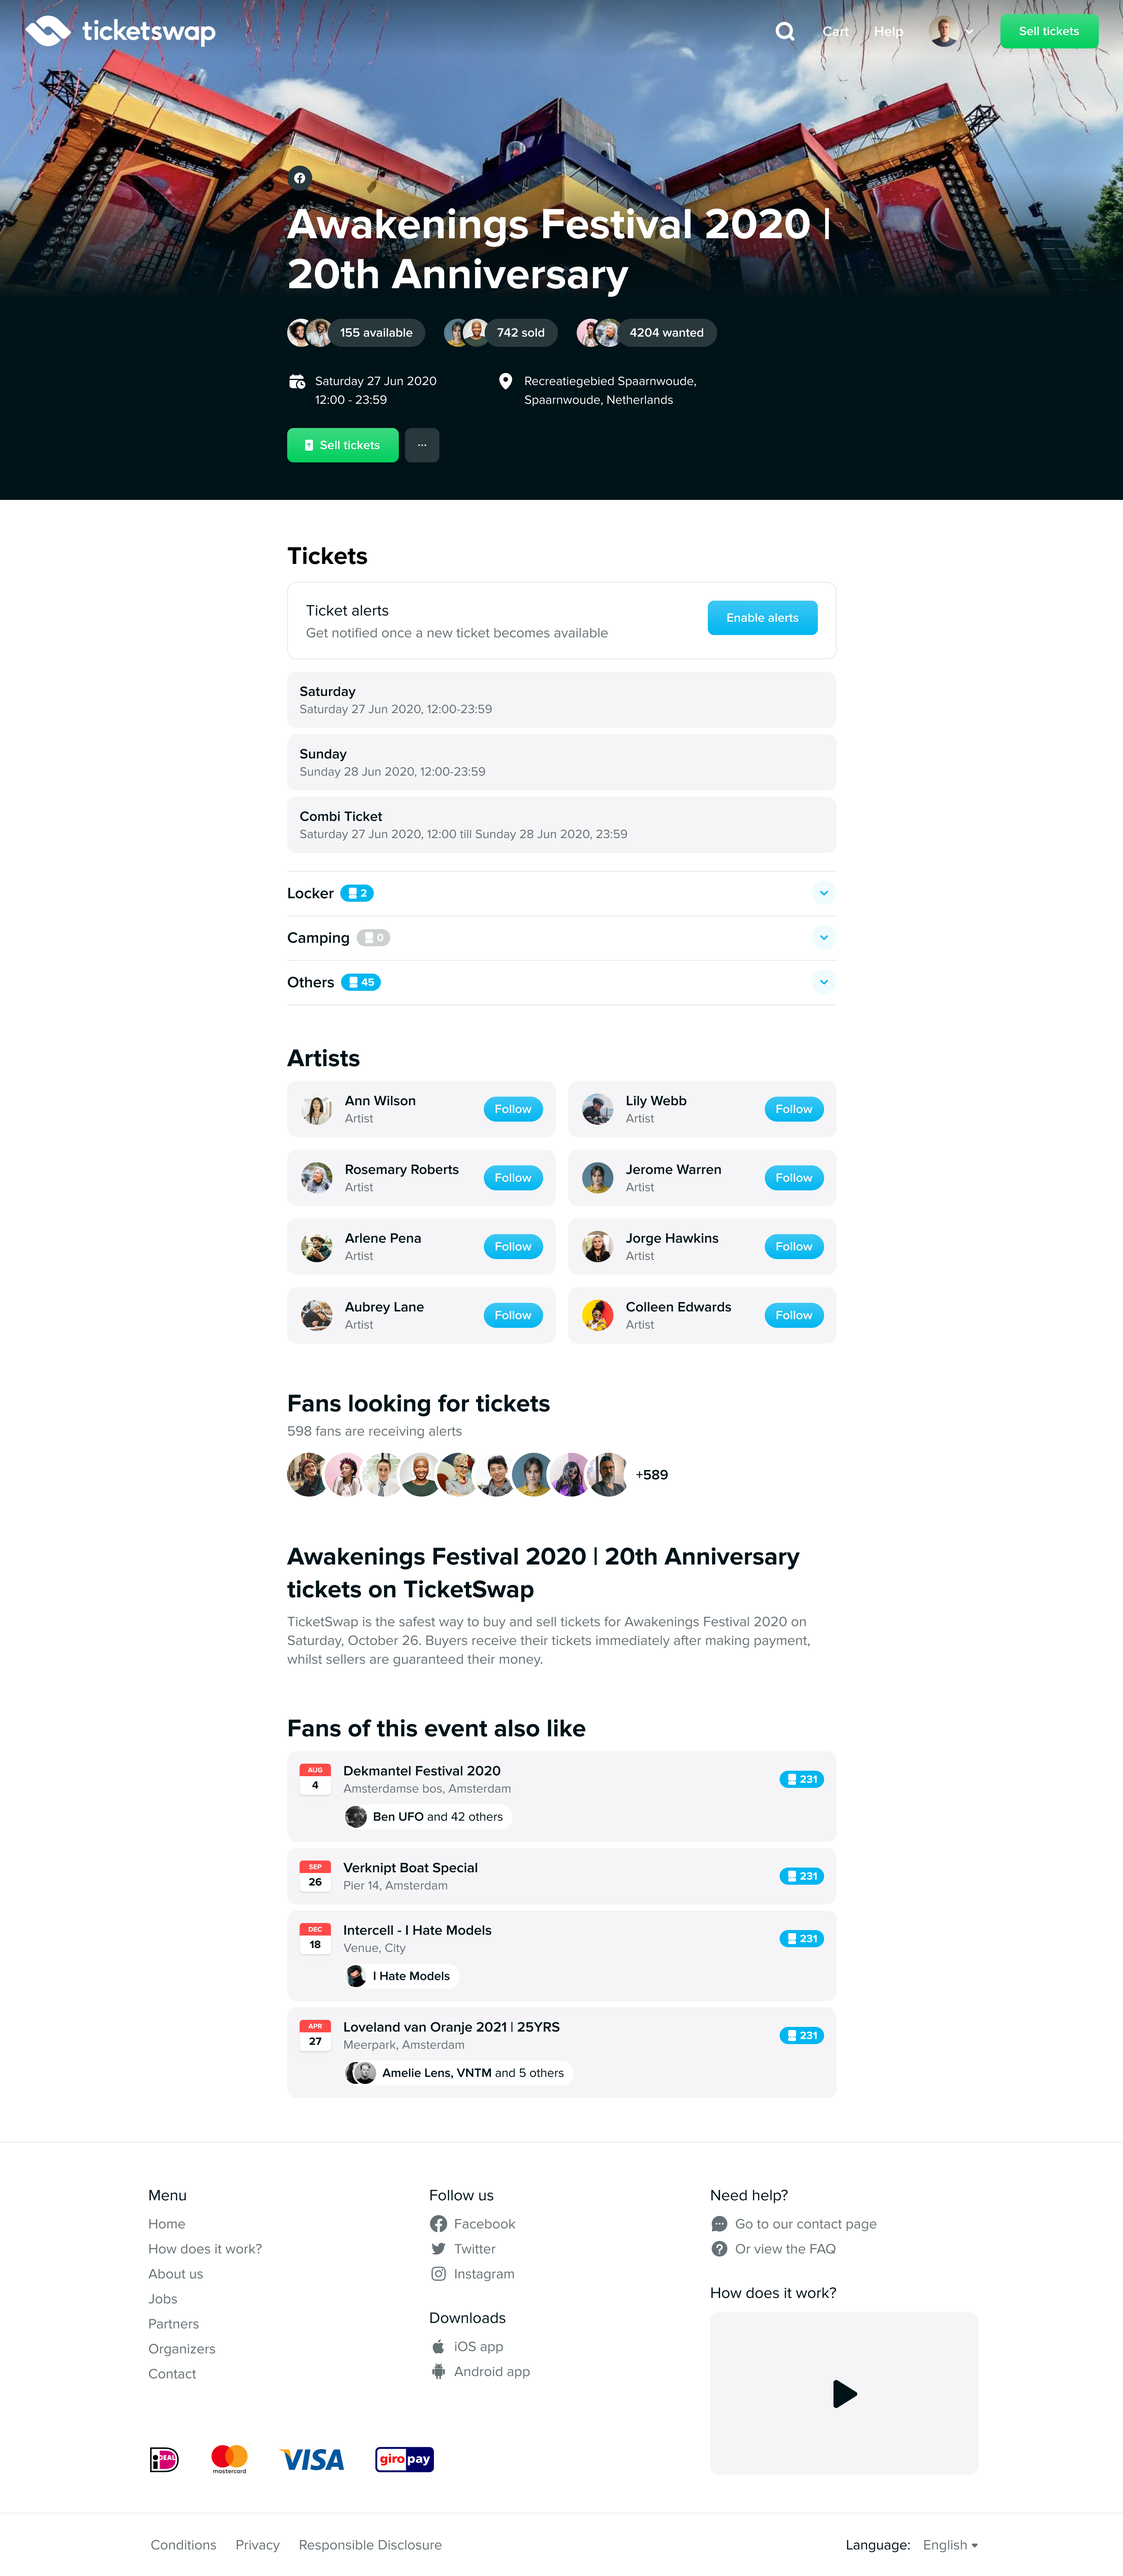
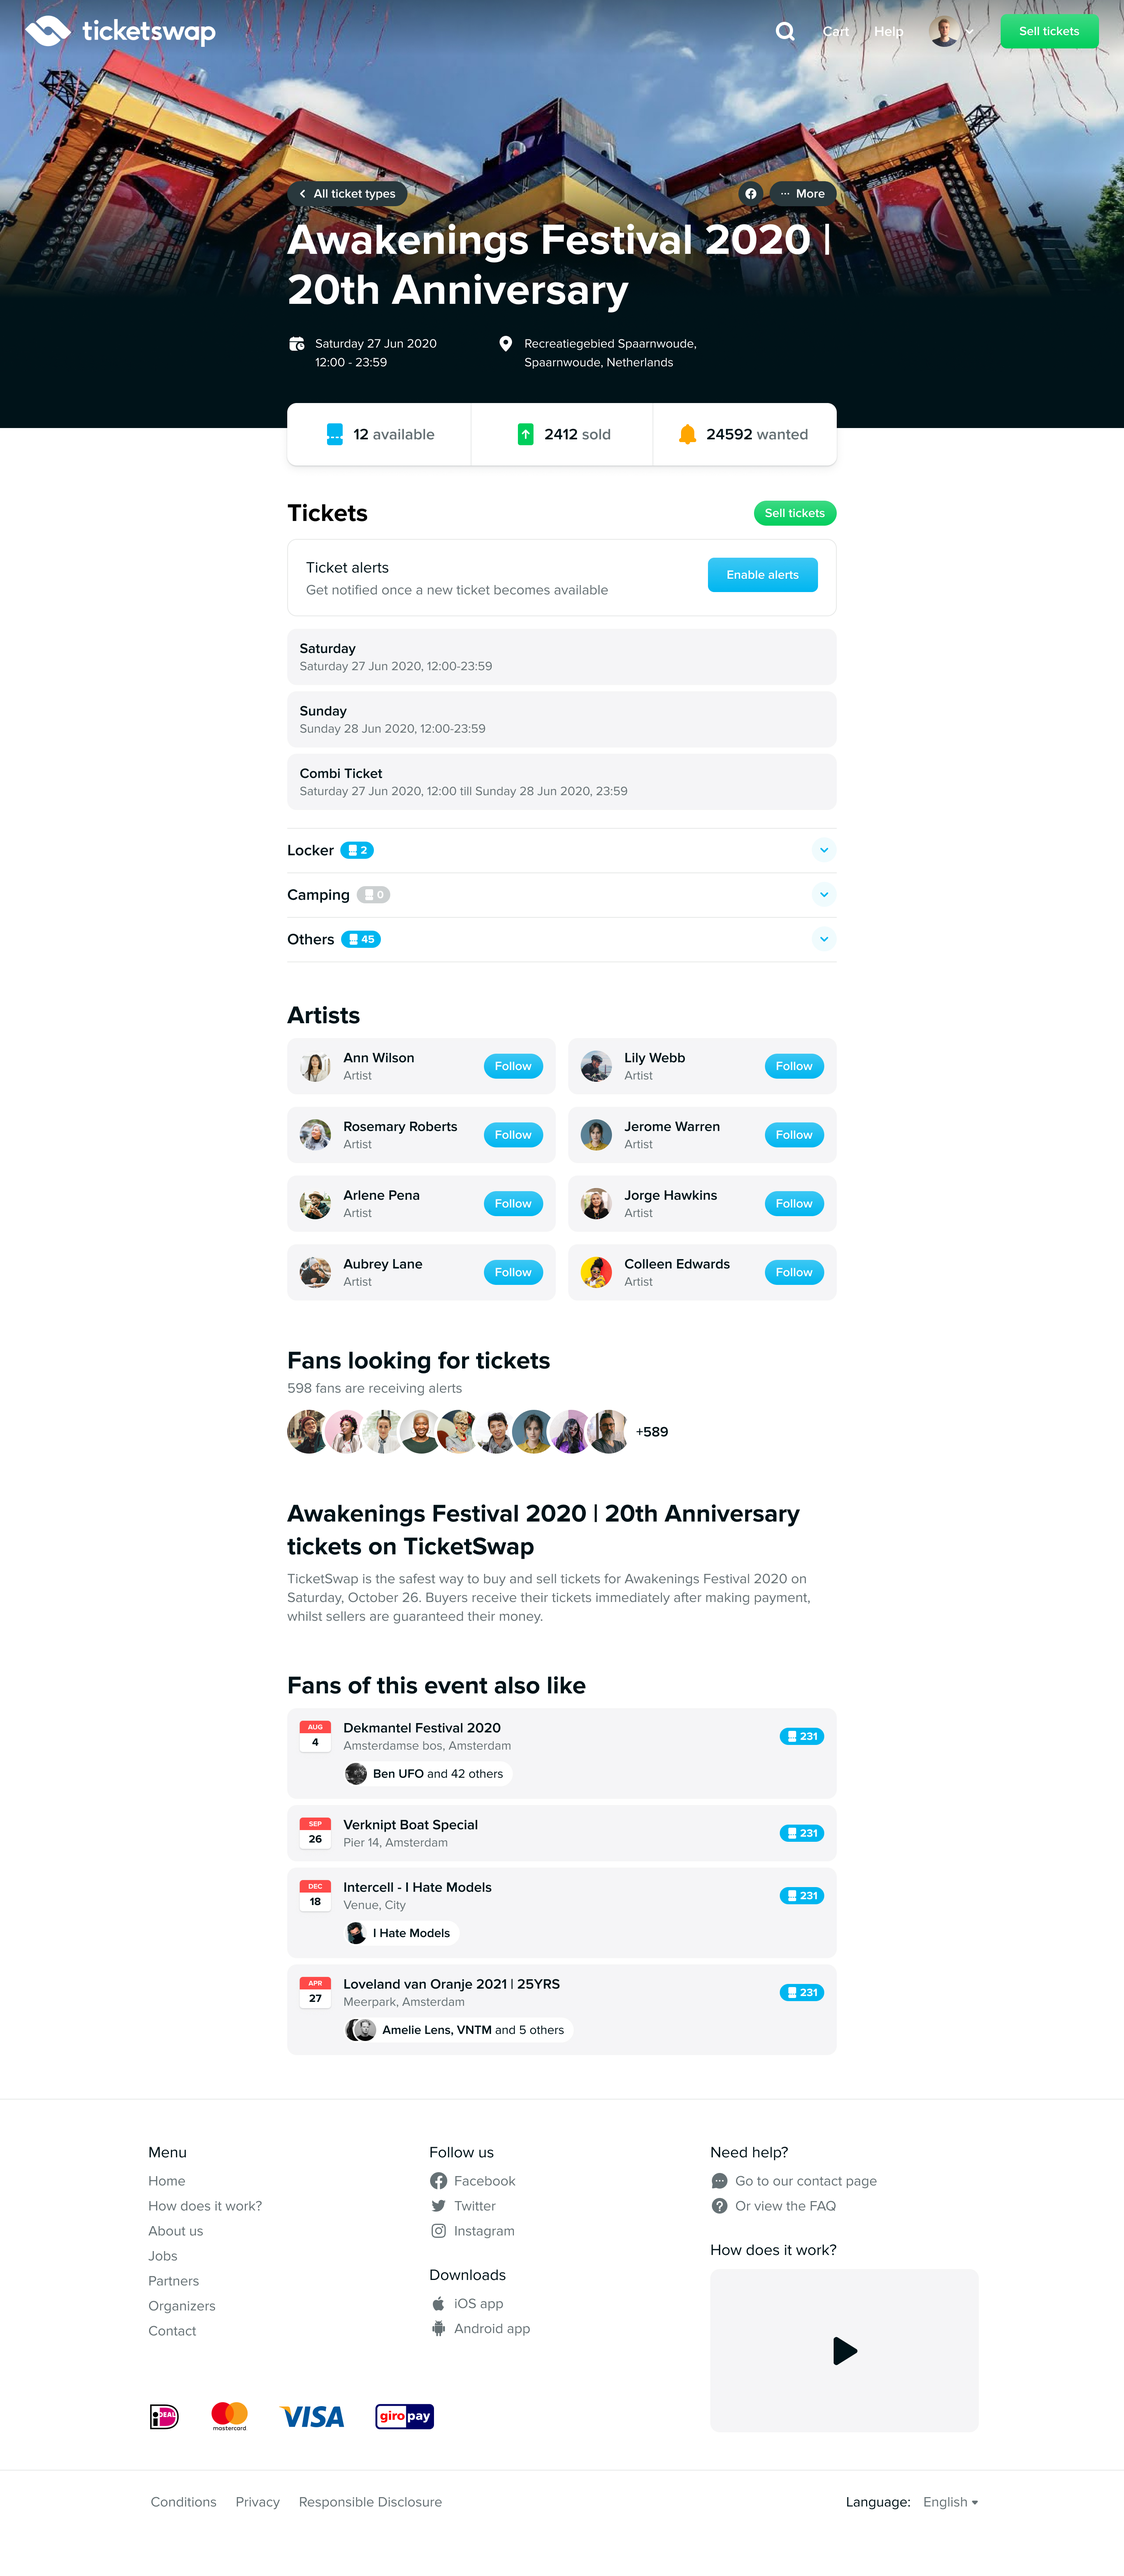
Updates event page portfolio case

diff --git a/src/pages/event-page.js b/src/pages/event-page.js
@@ -15,7 +15,7 @@ const eventPage = () => (
     <CaseHeader
       title="Event page"
       subtitle="Product designer"
-      liveUrl="//www.ticketswap.com/event/dekmantel-festival/c4b0156a-aa73-4e89-a027-fe679776c746"
+      liveUrl="//ticketswap.com/event/motor-city-drum-ensemble/regular-tickets/f4a6bb16-9418-4941-9857-0c37b1c608fe/1555633"
       buttonLabel="View live"
     >
       <p>
@@ -59,10 +59,9 @@ const eventPage = () => (
         type="border"
       >
         <p>
-          Here users spend a lot of time trying to get a ticket. To create trust
-          and make the page feel personal we show avatars of the sellers. The
-          comments that sellers add to their listing sometimes create funny
-          situations that even get shared on social media.
+          Here users spend a lot of time trying to get a ticket. The comments
+          that sellers add to their listing sometimes create funny situations
+          that even get shared on social media.
         </p>
       </Chapter>
 
@@ -127,7 +126,7 @@ const eventPage = () => (
         </p>
       </Chapter>
 
-      <CaseFooter url="//www.ticketswap.com/event/dekmantel-festival/c4b0156a-aa73-4e89-a027-fe679776c746"></CaseFooter>
+      <CaseFooter url="//ticketswap.com/event/motor-city-drum-ensemble/regular-tickets/f4a6bb16-9418-4941-9857-0c37b1c608fe/1555633"></CaseFooter>
 
       <Group title="Next case" description="">
         <Card
